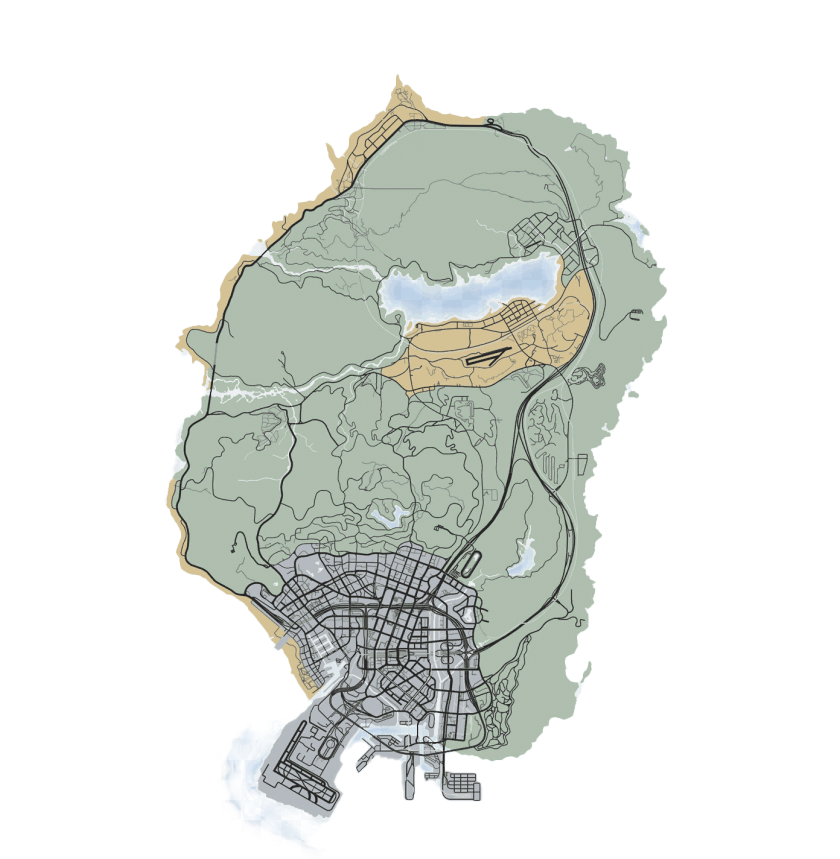
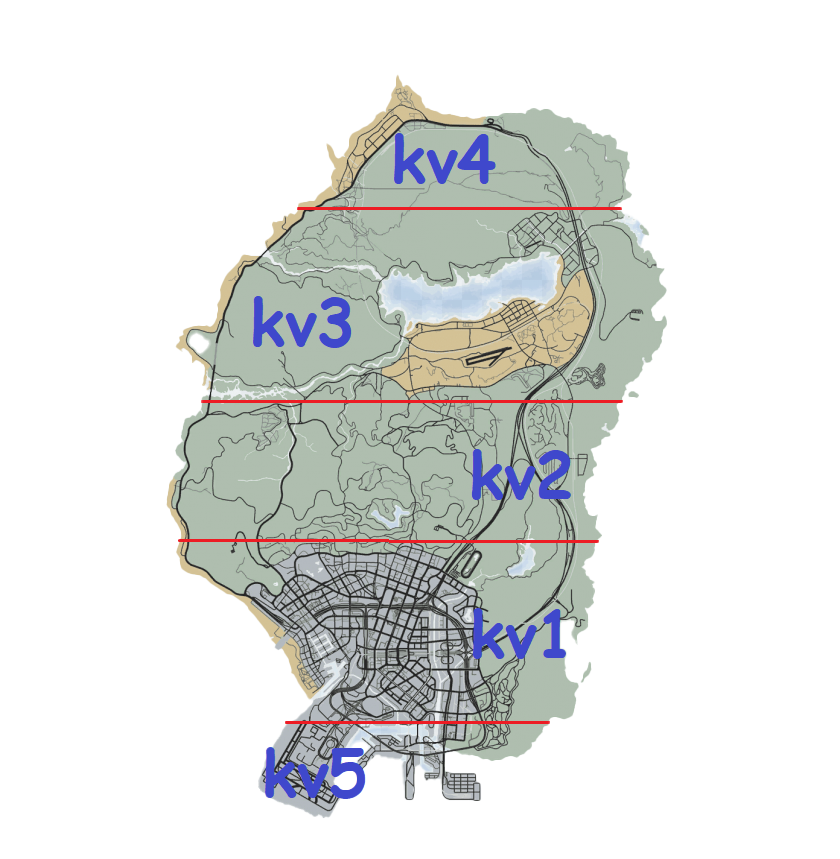
cap nhat gia benh vien

diff --git a/index.html b/index.html
@@ -54,7 +54,8 @@
         </div>
         <ul class="cs-list cs-style1 cs-mp0">
           <li>
-            <i class="far fa-check-square"></i>Thông báo Bệnh viện (xx/08/2022)
+            <i class="far fa-check-square"></i>Thông báo Bệnh viện (20/08/2022): Cập nhật viện phí (Vui lòng xem tại
+            phần Viện phí)
             <div class="cs-btns cs-style1">
               <a href="announcement.html" class="cs-btn cs-style1 cs-color1 cs-primary__font">
                 <span class="cs-btn__text">Xem chi tiết thông báo</span>
@@ -363,7 +364,17 @@
                     cạnh
                   </p>
                   <p>
-                    Đang cập nhật ...
+                    Đối với trường hợp cứu thương và cứu sống ở <span style="color:red"><b>kv1</b></span>: 100$
+                  </p>
+                  <p>
+                    Đối với trường hợp cứu sống ở <span style="color:red"><b>kv2</b></span> và <span
+                      style="color:red"><b>kv3</b></span>: 250$
+                  </p>
+                  <p>
+                    Đối với trường hợp cứu sống ở <span style="color:red"><b>kv4</b></span>: 400$
+                  </p>
+                  <p>
+                    Đối với trường hợp cứu thương và cứu sống ở <span style="color:red"><b>kv5</b></span>: 400$
                   </p>
                 </div>
               </div>
